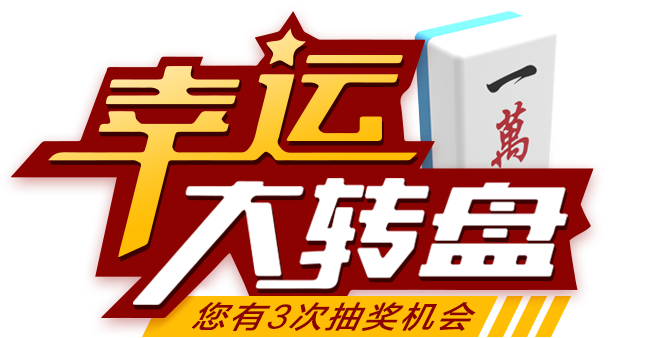
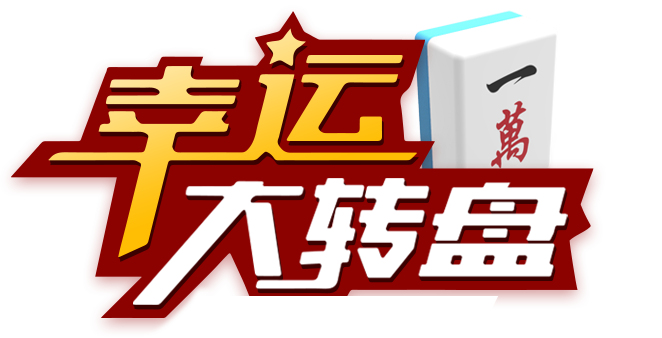
form terry add some styles add draw.html and js file

Changed region(s): [[0.2115, 0.858, 0.8761, 1.0]]

diff --git a/src/style.scss b/src/style.scss
@@ -20,12 +20,26 @@
     top: 0.2rem;
     left: 0.14rem;
   }
-  .pd-head{
+  .pd-head-wrap{
     width: 6.62rem;
     height: 3.38rem;
+    margin: 0.48rem auto 0.27rem;
+  }
+  .pd-head{
+    width: 100%;
+    height: 100%;
     background: url('./libs/img/pd-head.png')center no-repeat;
     background-size: 100% 100%;
-    margin: 0.48rem auto 0.27rem;
+  }
+  .pd-head-down{
+    width: 4.3rem;
+    height: 0.42rem;
+    position: absolute;
+    bottom: 0;
+    background: url('./libs/img/rp-num-bg.png')center no-repeat;
+    background-size: 100% 100%;
+    color: #940002;
+    font-style: oblique;
   }
   .pd-word{
     width: 6.66rem;
@@ -159,6 +173,27 @@
       background-size:100% 100%;
     }
   }
+}
+
+.dw-main{
+  background:url('./libs/img/fp-bg.png')center no-repeat;
+  background-size:100% 100%;
+  width: 100%;
+  height: 100%;
+  .dw-main-bg{
+    background:url('./libs/img/fp-bg2.png')center no-repeat;
+    background-size:100% 100%;
+    width: 100%;
+    height: 100%;
+  }
+  .topic{
+    width: 6.1rem;
+    height: 4.18rem;
+    background:url('./libs/img/fp-topic.png')center no-repeat;
+    background-size:100% 100%;
+    margin: 0.52rem auto 0.1rem;
+  }
+
 }
 
 //适配ipad样式

diff --git a/src/main.js b/src/main.js
@@ -8,11 +8,13 @@ import jQuery from 'jquery';
   /*确定奖项-确定范围-确定度数*/
   var circle = $('.pd-circle');	//操作的转盘
   var pointer = $('.pd-pointer');	//指针
+  var leaveCountDiv=$('.pd-head-down');
   var curDeg = 1;				//当前度数
   // var curTime = 0;				//当前运行时长
   var step = 1;					//匀速步长，匀速时每次走的步长
   var speed = 1;				//速度，每次的间隔时间
   var stopDeg = 3 * 360;			//基础停止总圈数
+  var leaveCount=3;
   var prizeData = [/*设立的奖项 		odds 中奖几率区间  num奖项占有数目 angles奖项分布范围*/
     {
       name: '一等奖', key: 'first', odds: [1, 100], num: 1, angles: [
@@ -54,6 +56,13 @@ import jQuery from 'jquery';
 
   //启动转盘
   function start() {
+    if(leaveCount<1)
+    {
+      return;
+    }
+    leaveCount--;
+    leaveCountDiv.html('您有'+leaveCount+'次抽奖机会');
+
     pointer.off('click', start);
     if (curDeg) {
       curDeg = 0;

diff --git a/src/draw.html b/src/draw.html
@@ -1,10 +1,25 @@
 <!DOCTYPE html>
-<html lang="en">
+<html lang="<%= lang %>">
 <head>
-    <meta charset="UTF-8">
-    <title>Title</title>
+  <meta charset="UTF-8">
+  <title>幸运转盘</title>
+  <meta name="description" content="">
+  <meta name="keywords" content="">
+  <meta http-equiv="X-UA-Compatible" content="IE=edge">
+  <meta http-equiv="X-UA-Compatible" content="IE=edge,chrome=1">
+  <meta name="viewport" content="width=device-width,initial-scale=1.0,maximum-scale=1.0,user-scalable=no">
+  <% if (dll) { %><script src="vendor.dll.js"></script><% } %>
+  <% if (env === "production") { %><link href="main.css" /><% } %>
 </head>
 <body>
-
+<div class="pd-container">
+  <div class="dw-main">
+    <div class="dw-main-bg clear">
+      <div class="pd-logo"></div>
+      <div class="topic"></div>
+    </div>
+  </div>
+</div>
+<script src="./main.js"></script>
 </body>
 </html>

diff --git a/src/index.html b/src/index.html
@@ -15,7 +15,12 @@
 <div class="pd-container">
   <div class="pd-main rel-position clear">
     <div class="pd-logo"></div>
-    <div class="pd-head"></div>
+    <div class="pd-head-wrap rel-position">
+      <div class="pd-head rel-position z-index-2"></div>
+      <div class="pd-head-down horizantal z-index-1 fs-30 txt-center txt-bold">
+        您有3次抽奖机会
+      </div>
+    </div>
     <div class="pd-center rel-position">
       <div class="pd-shadow pos-position p-down z-index-1"></div>
       <div class="pd-circle-wrap pos-position horizantal p-top z-index-2">

diff --git a/config/default.js b/config/default.js
@@ -14,6 +14,7 @@ module.exports = {
   entry: {
     main:path.join(root, 'src', 'main.js'),
     'dm-redpacket':path.join(root, 'src', 'dm-redpacket.js'),
+    draw:path.join(root,'src','draw.js'),
   },
   output: path.join(root, '.tmp'),
 

diff --git a/src/draw.js b/src/draw.js
@@ -1,0 +1,4 @@
+import './style.scss';
+import './libs/js/suit';
+// import {RandomNum} from './libs/js/utils';
+// import jQuery from 'jquery';
